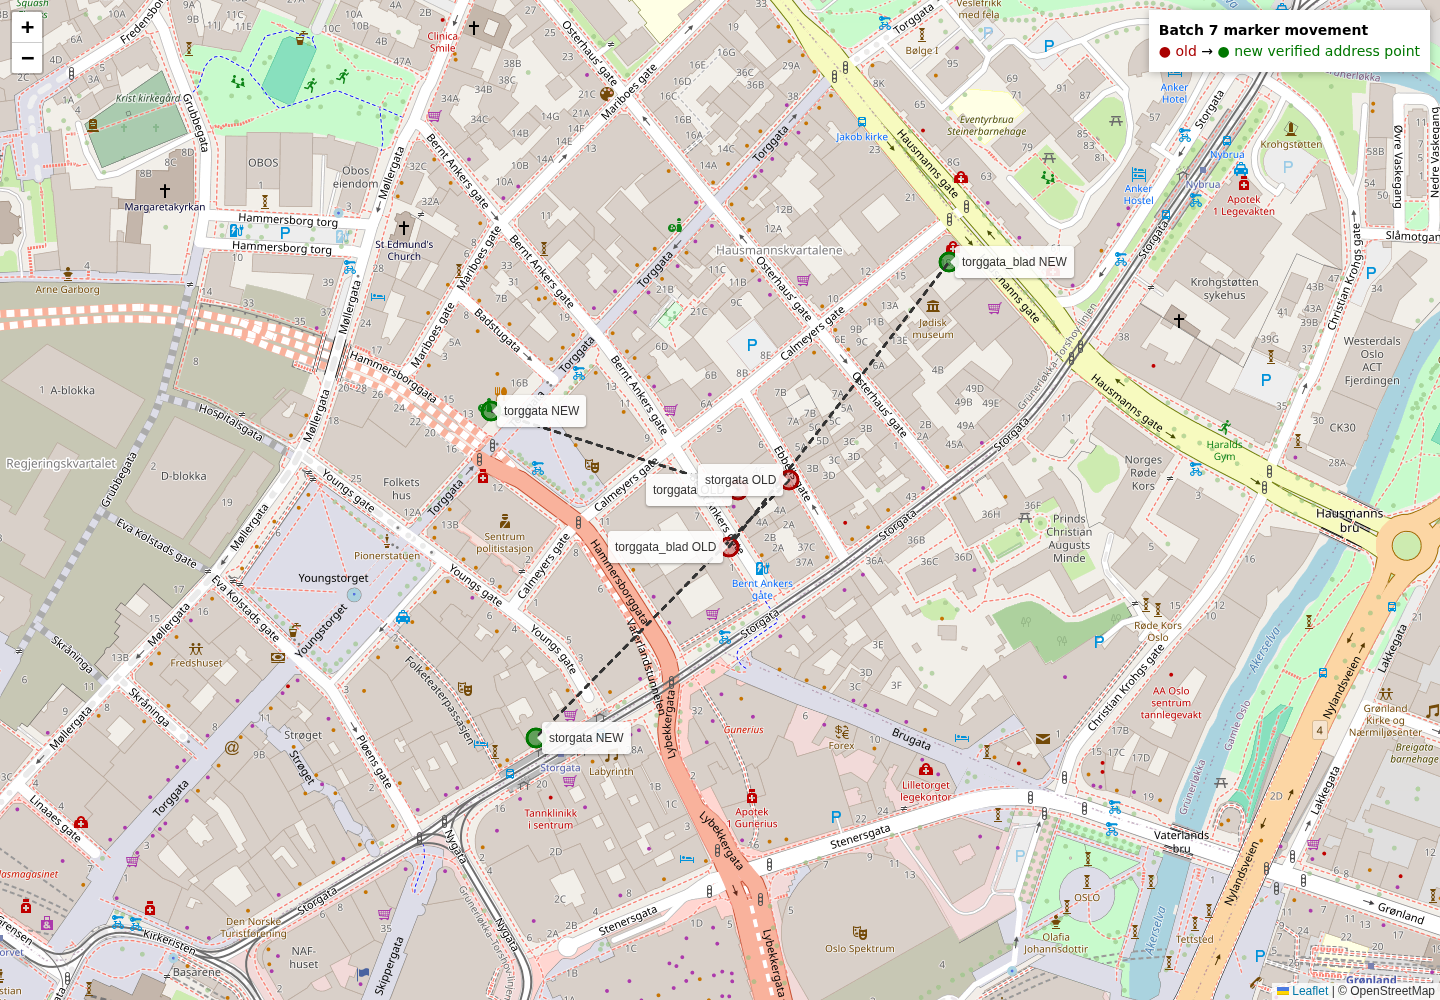
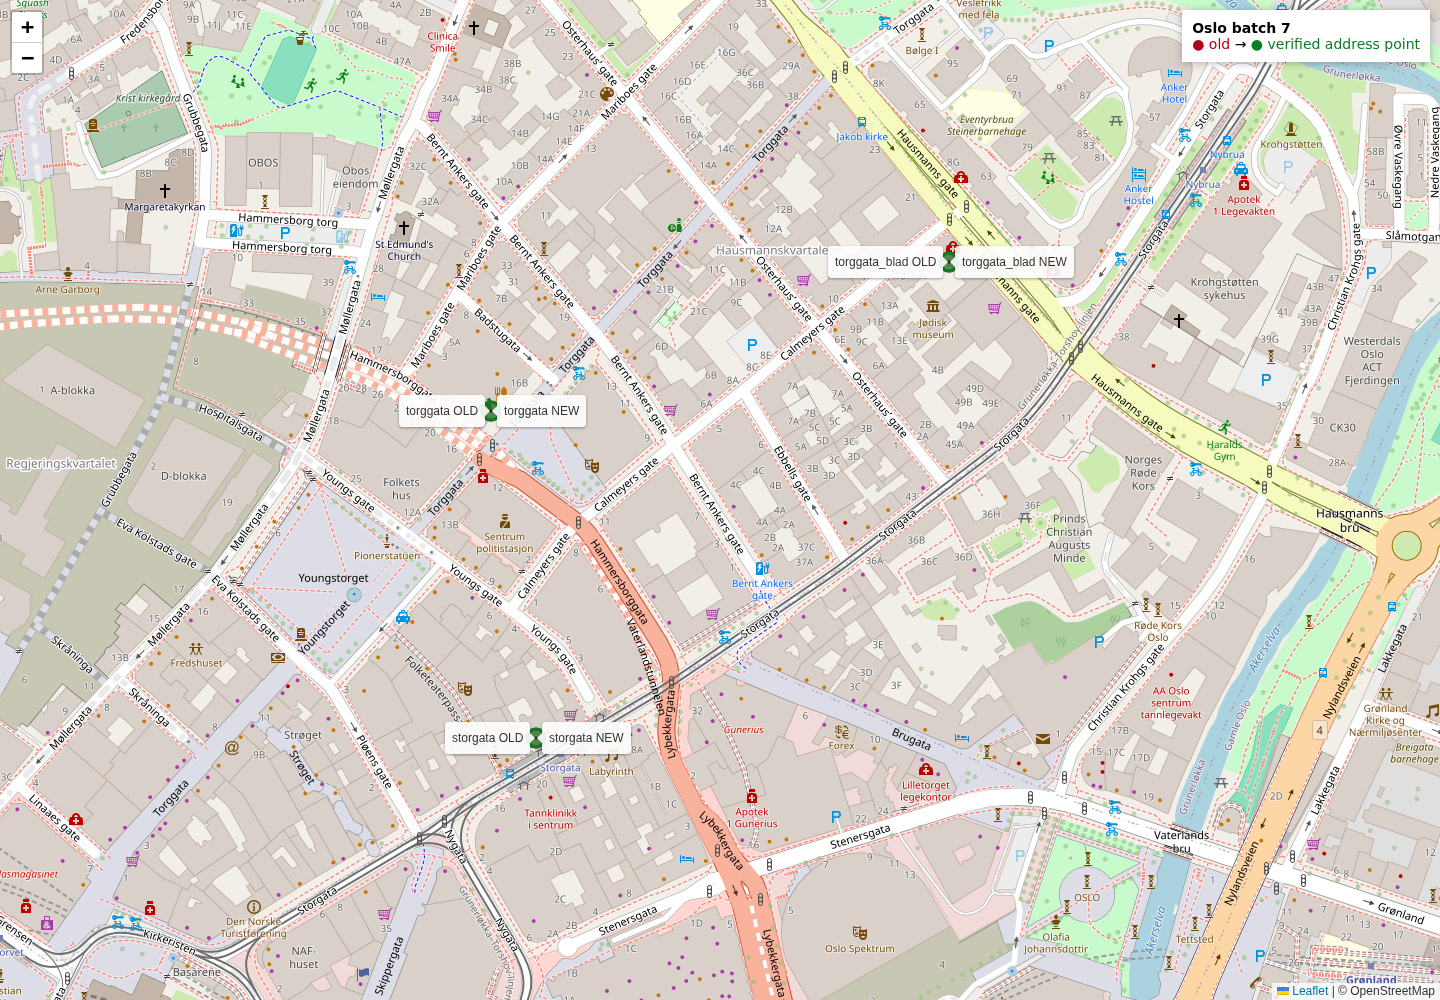
Apply Geonorge address batch 7 for Oslo street markers

diff --git a/reports/geonorge-address-batch-7/map-audit.html b/reports/geonorge-address-batch-7/map-audit.html
@@ -1,20 +1,1 @@
-<!doctype html><html><head><meta charset="utf-8"><meta name="viewport" content="width=device-width,initial-scale=1">
-<title>Oslo coordinate batch 7 map audit</title>
-<link rel="stylesheet" href="https://unpkg.com/leaflet@1.9.4/dist/leaflet.css">
-<style>html,body,#map{height:100%;margin:0} .legend{background:white;padding:10px;font:14px system-ui;line-height:1.5;box-shadow:0 1px 8px #0004}.old{color:#a00}.new{color:#070}</style></head>
-<body><div id="map"></div><script src="https://unpkg.com/leaflet@1.9.4/dist/leaflet.js"></script><script>
-fetch('./apply-audit.json').then(r=>r.json()).then(a=>{
-  const map=L.map('map').setView([59.9155,10.7532],15);
-  L.tileLayer('https://tile.openstreetmap.org/{z}/{x}/{y}.png',{maxZoom:19,attribution:'© OpenStreetMap'}).addTo(map);
-  const bounds=[];
-  for(const [id,n] of Object.entries(a.newCoordinates)){
-    const o=a.oldCoordinates[id];
-    const old=L.circleMarker([o.lat,o.lon],{radius:9,color:'#a00',fillOpacity:.35}).addTo(map).bindTooltip(`${id} OLD`,{permanent:true,direction:'left'});
-    const neu=L.circleMarker([n.lat,n.lon],{radius:9,color:'#070',fillOpacity:.55}).addTo(map).bindTooltip(`${id} NEW`,{permanent:true,direction:'right'});
-    L.polyline([[o.lat,o.lon],[n.lat,n.lon]],{color:'#333',dashArray:'5,6'}).addTo(map);
-    bounds.push([o.lat,o.lon],[n.lat,n.lon]);
-  }
-  map.fitBounds(bounds,{padding:[60,60]});
-  const legend=L.control({position:'topright'}); legend.onAdd=()=>{const d=L.DomUtil.create('div','legend'); d.innerHTML='<b>Batch 7 marker movement</b><br><span class="old">● old</span> → <span class="new">● new verified address point</span>';return d};legend.addTo(map);
-});
-</script></body></html>
+<!doctype html><html><head><meta charset="utf-8"><meta name="viewport" content="width=device-width,initial-scale=1"><title>Batch 7 map audit</title><link rel="stylesheet" href="https://unpkg.com/leaflet@1.9.4/dist/leaflet.css"><style>html,body,#map{height:100%;margin:0}.legend{background:#fff;padding:10px;font:14px system-ui;box-shadow:0 1px 8px #0004}</style></head><body><div id="map"></div><script src="https://unpkg.com/leaflet@1.9.4/dist/leaflet.js"></script><script>fetch('./apply-audit.json').then(r=>r.json()).then(a=>{const m=L.map('map');L.tileLayer('https://tile.openstreetmap.org/{z}/{x}/{y}.png',{maxZoom:19,attribution:'© OpenStreetMap'}).addTo(m);const b=[];for(const[id,n]of Object.entries(a.newCoordinates)){const o=a.oldCoordinates[id];L.circleMarker([o.lat,o.lon],{radius:9,color:'#b00020',fillOpacity:.35}).addTo(m).bindTooltip(id+' OLD',{permanent:true,direction:'left'});L.circleMarker([n.lat,n.lon],{radius:9,color:'#087f23',fillOpacity:.6}).addTo(m).bindTooltip(id+' NEW',{permanent:true,direction:'right'});L.polyline([[o.lat,o.lon],[n.lat,n.lon]],{color:'#222',dashArray:'5,6'}).addTo(m);b.push([o.lat,o.lon],[n.lat,n.lon]);}m.fitBounds(b,{padding:[80,80]});const c=L.control({position:'topright'});c.onAdd=()=>{const d=L.DomUtil.create('div','legend');d.innerHTML='<b>Oslo batch 7</b><br><span style="color:#b00020">● old</span> → <span style="color:#087f23">● verified address point</span>';return d};c.addTo(m);});</script></body></html>
